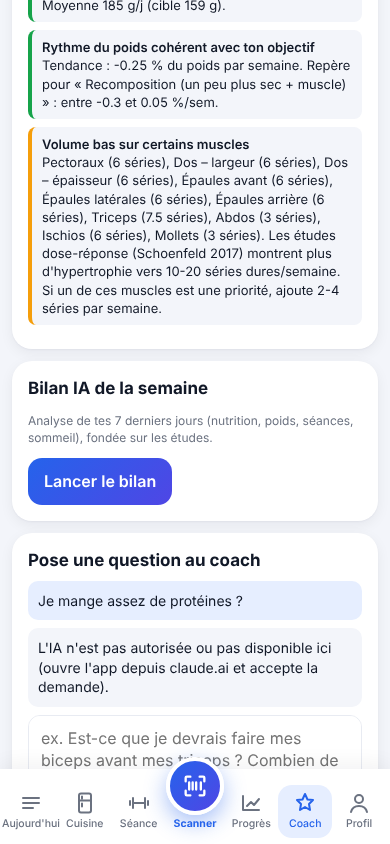
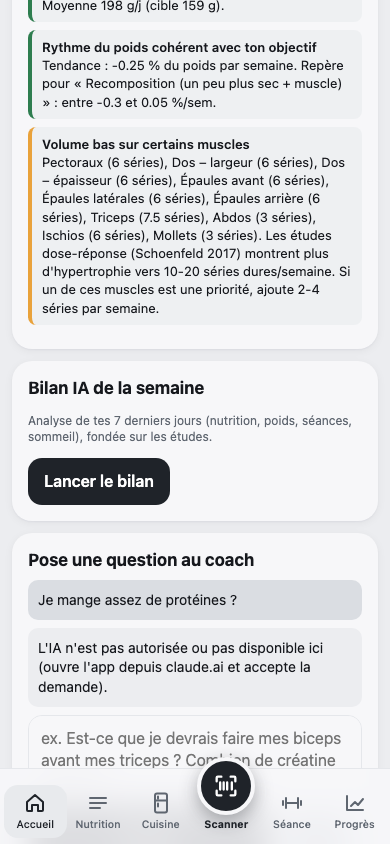
Format téléphone : iPhone simulé sur grand écran (Mac, ordinateur, iPad), lien « Ouvrir en grand »

diff --git a/dev/index.local.html b/dev/index.local.html
@@ -473,12 +473,74 @@ html[data-ds][data-ds-style=c].dark .ds-hero{
 :where(html[data-ds]) .dsh-go{background:var(--u-pastel);color:var(--u-hero);width:100%}
 :where(html[data-ds].dark) .dsh-go{background:color-mix(in srgb,var(--u-accent-dk) 22%,var(--d-card));color:var(--u-accent-dk)}
 
+/* ---------- Format téléphone (phone.js) : iPhone simulé sur grand écran ---------- */
+html.phone-host,html.phone-host body{height:100%;margin:0;overflow:hidden;background:#E6E8EC}
+html.phone-host.dark,html.phone-host.dark body{background:#08090B}
+.phone-stage{height:100%;display:flex;flex-direction:column;align-items:center;justify-content:center;gap:14px}
+.phone{position:relative;width:414px;height:868px;flex:none;padding:12px;box-sizing:border-box;border-radius:64px;background:#101114;box-shadow:0 0 0 2px #2B2E34,0 0 0 5px #0B0C0E,0 30px 80px rgba(0,0,0,.28)}
+.phone iframe{width:390px;height:844px;border:0;border-radius:52px;display:block;background:#fff}
+.phone-island{position:absolute;top:23px;left:50%;transform:translateX(-50%);width:122px;height:35px;border-radius:20px;background:#000;pointer-events:none}
+.phone-home{position:absolute;bottom:20px;left:50%;transform:translateX(-50%);width:134px;height:5px;border-radius:3px;background:rgba(0,0,0,.82);pointer-events:none}
+html.phone-host.dark .phone-home{background:rgba(255,255,255,.82)}
+.phone-out{font:13px -apple-system,system-ui,sans-serif;color:#5F6670;text-decoration:none}.phone-out:hover{text-decoration:underline}
+html.phone-host.dark .phone-out{color:#9AA1AC}
+html.in-phone #app{padding-top:59px!important}
+.phone-status{position:fixed;top:0;left:0;right:0;height:50px;z-index:95;display:flex;justify-content:space-between;align-items:center;padding:4px 26px 0 40px;font:600 16px -apple-system,system-ui,sans-serif;color:var(--txt);background:var(--bg);pointer-events:none}
+.phone-status span{display:flex;gap:6px;align-items:center}.phone-status svg{fill:currentColor}
+html.in-phone nav.tabs{padding-bottom:26px}
+html.in-phone .sheet{padding-bottom:34px}
+html.in-phone .restbar,html.in-phone .fab{bottom:104px}html.in-phone .toast{bottom:108px}
+html.in-phone body:has(#restBar) .toast{bottom:172px}
+
 @media (prefers-reduced-motion:reduce){:where(html[data-ds]) *{transition:none!important;animation-duration:.01ms!important}}
 
 #app{padding-top:calc(12px + env(safe-area-inset-top))}</style>
 <script src="vendor/three.min.js"></script><script src="vendor/OrbitControls.js"></script><script src="vendor/chart.umd.min.js"></script>
 </head><body><div id="app"></div><nav class="tabs" id="nav"></nav><div id="sheet"></div>
 <script>
+// ===================== FORMAT TÉLÉPHONE (section Design) =====================
+// Sur un grand écran (Mac, navigateur d'ordinateur, iPad), l'app s'affiche dans un iPhone simulé (390 × 844) :
+// la page devient un simple « support » qui contient un cadre (iframe) où tourne la vraie app (?inphone=1).
+// Le support ne lance PAS l'app (pas de synchro, pas de données) : il n'y a qu'une seule app qui tourne.
+// Jamais de cadre : sur un téléphone, dans l'app iPhone (pont Santé), dans un cadre, avec ?ds (page d'aperçu),
+// au retour de connexion Spotify (?code=), ou avec ?nophone=1 (« Ouvrir en grand »).
+const PHONE = (() => {
+  const q = new URLSearchParams(location.search);
+  const inPhone = q.has("inphone");
+  let top = true; try { top = window.top === window.self; } catch (e) { top = false; }
+  const native = !!(window.webkit && window.webkit.messageHandlers && window.webkit.messageHandlers.health);
+  const host = !inPhone && top && !native && !q.has("ds") && !q.has("nophone") && !q.get("code") && Math.min(innerWidth, screen.width || innerWidth) >= 700;
+  return { inPhone, host };
+})();
+
+// Appelée au démarrage (actions.js). Renvoie true si la page est le support (l'app ne démarre pas ici).
+function phoneBoot() {
+  const h = document.documentElement;
+  if (PHONE.inPhone) { h.classList.add("in-phone"); phoneStatusBar(); return false; }
+  if (!PHONE.host) return false;
+  h.classList.add("phone-host");
+  const dark = () => { const p = typeof themePref === "function" ? themePref() : "clair"; return p === "sombre" || (p === "auto" && matchMedia("(prefers-color-scheme: dark)").matches); };
+  const paint = () => h.classList.toggle("dark", dark());
+  paint(); addEventListener("storage", e => { if (e.key === "muscu_theme") paint(); }); // le thème choisi dans l'app suit
+  const src = location.pathname + "?inphone=1" + location.hash;
+  document.body.innerHTML = `<div class="phone-stage"><div class="phone" id="phone"><iframe src="${src}" title="Muscu & Nutrition" allow="camera; microphone; clipboard-read; clipboard-write; fullscreen; screen-wake-lock"></iframe>
+    <i class="phone-island"></i><i class="phone-home"></i></div><a class="phone-out" href="${location.pathname}?nophone=1">Ouvrir en grand</a></div>`;
+  const fit = () => { const s = Math.min(1, (innerHeight - 56) / 868, (innerWidth - 32) / 414); document.getElementById("phone").style.zoom = s.toFixed(3); };
+  fit(); addEventListener("resize", fit);
+  return true;
+}
+
+// Barre d'état façon iPhone (heure + icônes), dans l'app quand elle tourne dans le cadre
+function phoneStatusBar() {
+  const el = document.createElement("div"); el.className = "phone-status"; el.setAttribute("aria-hidden", "true");
+  const icons = `<svg width="18" height="12" viewBox="0 0 18 12"><rect x="0" y="8" width="3" height="4" rx="1"/><rect x="5" y="5.5" width="3" height="6.5" rx="1"/><rect x="10" y="3" width="3" height="9" rx="1"/><rect x="15" y="0" width="3" height="12" rx="1"/></svg>
+    <svg width="16" height="12" viewBox="0 0 16 12"><path d="M8 11.5 5.6 9a3.4 3.4 0 0 1 4.8 0zM3.2 6.6a6.8 6.8 0 0 1 9.6 0l-1.4 1.4a4.8 4.8 0 0 0-6.8 0zM.8 4.2a10.2 10.2 0 0 1 14.4 0L13.8 5.6a8.2 8.2 0 0 0-11.6 0z"/></svg>
+    <svg width="27" height="13" viewBox="0 0 27 13"><rect x=".5" y=".5" width="22" height="12" rx="3.5" fill="none" stroke="currentColor" opacity=".4"/><rect x="2" y="2" width="17" height="9" rx="2"/><path d="M24 4.5v4a2 2 0 0 0 0-4z" opacity=".4"/></svg>`;
+  const tick = () => { const d = new Date(); el.innerHTML = `<b>${d.getHours()}:${String(d.getMinutes()).padStart(2, "0")}</b><span>${icons}</span>`; };
+  tick(); setInterval(tick, 20000);
+  document.body.appendChild(el);
+}
+
 // ===================== DONNÉES DE BASE =====================
 // Aliments courants : valeurs moyennes pour 100 g (kcal, prot, gluc, lip, fibres). u = portion type en g
 const FOODS_BASE = [
@@ -4596,7 +4658,7 @@ Object.assign(ACT, DISH_ACT, PLATFORM_ACT, RECIPE_ACT, BODY_ACT, PROG_ACT, NUT_A
 ACT_PICK_MACHINE = id => openSheet(machineSheet(id));
 ACT_PICK_FRIDGE = id => openSheet(fridgeItemSheet(id));
 Store.on(() => { render(); if (liveWorkout()) scheduleTimer(); wakeSync(); });
-if (typeof IS_SP_REDIRECT === "undefined" || !IS_SP_REDIRECT) { render(); Store.init(); if (typeof spBoot === "function") spBoot(); }
+if ((typeof IS_SP_REDIRECT === "undefined" || !IS_SP_REDIRECT) && !(typeof phoneBoot === "function" && phoneBoot())) { render(); Store.init(); if (typeof spBoot === "function") spBoot(); } // phoneBoot : format téléphone sur grand écran (phone.js)
 
 // ===================== DESIGN SYSTEM 2 (section Design) =====================
 // ACTIF par défaut (choix de Vuthy du 26-27/11 : Black Cherry, style C, neutre + accents, accueil).

diff --git a/dev/src/phone.js b/dev/src/phone.js
@@ -1,0 +1,42 @@
+// ===================== FORMAT TÉLÉPHONE (section Design) =====================
+// Sur un grand écran (Mac, navigateur d'ordinateur, iPad), l'app s'affiche dans un iPhone simulé (390 × 844) :
+// la page devient un simple « support » qui contient un cadre (iframe) où tourne la vraie app (?inphone=1).
+// Le support ne lance PAS l'app (pas de synchro, pas de données) : il n'y a qu'une seule app qui tourne.
+// Jamais de cadre : sur un téléphone, dans l'app iPhone (pont Santé), dans un cadre, avec ?ds (page d'aperçu),
+// au retour de connexion Spotify (?code=), ou avec ?nophone=1 (« Ouvrir en grand »).
+const PHONE = (() => {
+  const q = new URLSearchParams(location.search);
+  const inPhone = q.has("inphone");
+  let top = true; try { top = window.top === window.self; } catch (e) { top = false; }
+  const native = !!(window.webkit && window.webkit.messageHandlers && window.webkit.messageHandlers.health);
+  const host = !inPhone && top && !native && !q.has("ds") && !q.has("nophone") && !q.get("code") && Math.min(innerWidth, screen.width || innerWidth) >= 700;
+  return { inPhone, host };
+})();
+
+// Appelée au démarrage (actions.js). Renvoie true si la page est le support (l'app ne démarre pas ici).
+function phoneBoot() {
+  const h = document.documentElement;
+  if (PHONE.inPhone) { h.classList.add("in-phone"); phoneStatusBar(); return false; }
+  if (!PHONE.host) return false;
+  h.classList.add("phone-host");
+  const dark = () => { const p = typeof themePref === "function" ? themePref() : "clair"; return p === "sombre" || (p === "auto" && matchMedia("(prefers-color-scheme: dark)").matches); };
+  const paint = () => h.classList.toggle("dark", dark());
+  paint(); addEventListener("storage", e => { if (e.key === "muscu_theme") paint(); }); // le thème choisi dans l'app suit
+  const src = location.pathname + "?inphone=1" + location.hash;
+  document.body.innerHTML = `<div class="phone-stage"><div class="phone" id="phone"><iframe src="${src}" title="Muscu & Nutrition" allow="camera; microphone; clipboard-read; clipboard-write; fullscreen; screen-wake-lock"></iframe>
+    <i class="phone-island"></i><i class="phone-home"></i></div><a class="phone-out" href="${location.pathname}?nophone=1">Ouvrir en grand</a></div>`;
+  const fit = () => { const s = Math.min(1, (innerHeight - 56) / 868, (innerWidth - 32) / 414); document.getElementById("phone").style.zoom = s.toFixed(3); };
+  fit(); addEventListener("resize", fit);
+  return true;
+}
+
+// Barre d'état façon iPhone (heure + icônes), dans l'app quand elle tourne dans le cadre
+function phoneStatusBar() {
+  const el = document.createElement("div"); el.className = "phone-status"; el.setAttribute("aria-hidden", "true");
+  const icons = `<svg width="18" height="12" viewBox="0 0 18 12"><rect x="0" y="8" width="3" height="4" rx="1"/><rect x="5" y="5.5" width="3" height="6.5" rx="1"/><rect x="10" y="3" width="3" height="9" rx="1"/><rect x="15" y="0" width="3" height="12" rx="1"/></svg>
+    <svg width="16" height="12" viewBox="0 0 16 12"><path d="M8 11.5 5.6 9a3.4 3.4 0 0 1 4.8 0zM3.2 6.6a6.8 6.8 0 0 1 9.6 0l-1.4 1.4a4.8 4.8 0 0 0-6.8 0zM.8 4.2a10.2 10.2 0 0 1 14.4 0L13.8 5.6a8.2 8.2 0 0 0-11.6 0z"/></svg>
+    <svg width="27" height="13" viewBox="0 0 27 13"><rect x=".5" y=".5" width="22" height="12" rx="3.5" fill="none" stroke="currentColor" opacity=".4"/><rect x="2" y="2" width="17" height="9" rx="2"/><path d="M24 4.5v4a2 2 0 0 0 0-4z" opacity=".4"/></svg>`;
+  const tick = () => { const d = new Date(); el.innerHTML = `<b>${d.getHours()}:${String(d.getMinutes()).padStart(2, "0")}</b><span>${icons}</span>`; };
+  tick(); setInterval(tick, 20000);
+  document.body.appendChild(el);
+}

diff --git a/dev/src/theme.css b/dev/src/theme.css
@@ -280,4 +280,23 @@ html[data-ds][data-ds-style=c].dark .ds-hero{
 :where(html[data-ds]) .dsh-go{background:var(--u-pastel);color:var(--u-hero);width:100%}
 :where(html[data-ds].dark) .dsh-go{background:color-mix(in srgb,var(--u-accent-dk) 22%,var(--d-card));color:var(--u-accent-dk)}
 
+/* ---------- Format téléphone (phone.js) : iPhone simulé sur grand écran ---------- */
+html.phone-host,html.phone-host body{height:100%;margin:0;overflow:hidden;background:#E6E8EC}
+html.phone-host.dark,html.phone-host.dark body{background:#08090B}
+.phone-stage{height:100%;display:flex;flex-direction:column;align-items:center;justify-content:center;gap:14px}
+.phone{position:relative;width:414px;height:868px;flex:none;padding:12px;box-sizing:border-box;border-radius:64px;background:#101114;box-shadow:0 0 0 2px #2B2E34,0 0 0 5px #0B0C0E,0 30px 80px rgba(0,0,0,.28)}
+.phone iframe{width:390px;height:844px;border:0;border-radius:52px;display:block;background:#fff}
+.phone-island{position:absolute;top:23px;left:50%;transform:translateX(-50%);width:122px;height:35px;border-radius:20px;background:#000;pointer-events:none}
+.phone-home{position:absolute;bottom:20px;left:50%;transform:translateX(-50%);width:134px;height:5px;border-radius:3px;background:rgba(0,0,0,.82);pointer-events:none}
+html.phone-host.dark .phone-home{background:rgba(255,255,255,.82)}
+.phone-out{font:13px -apple-system,system-ui,sans-serif;color:#5F6670;text-decoration:none}.phone-out:hover{text-decoration:underline}
+html.phone-host.dark .phone-out{color:#9AA1AC}
+html.in-phone #app{padding-top:59px!important}
+.phone-status{position:fixed;top:0;left:0;right:0;height:50px;z-index:95;display:flex;justify-content:space-between;align-items:center;padding:4px 26px 0 40px;font:600 16px -apple-system,system-ui,sans-serif;color:var(--txt);background:var(--bg);pointer-events:none}
+.phone-status span{display:flex;gap:6px;align-items:center}.phone-status svg{fill:currentColor}
+html.in-phone nav.tabs{padding-bottom:26px}
+html.in-phone .sheet{padding-bottom:34px}
+html.in-phone .restbar,html.in-phone .fab{bottom:104px}html.in-phone .toast{bottom:108px}
+html.in-phone body:has(#restBar) .toast{bottom:172px}
+
 @media (prefers-reduced-motion:reduce){:where(html[data-ds]) *{transition:none!important;animation-duration:.01ms!important}}

diff --git a/dev/src/actions.js b/dev/src/actions.js
@@ -319,4 +319,4 @@ Object.assign(ACT, DISH_ACT, PLATFORM_ACT, RECIPE_ACT, BODY_ACT, PROG_ACT, NUT_A
 ACT_PICK_MACHINE = id => openSheet(machineSheet(id));
 ACT_PICK_FRIDGE = id => openSheet(fridgeItemSheet(id));
 Store.on(() => { render(); if (liveWorkout()) scheduleTimer(); wakeSync(); });
-if (typeof IS_SP_REDIRECT === "undefined" || !IS_SP_REDIRECT) { render(); Store.init(); if (typeof spBoot === "function") spBoot(); }
+if ((typeof IS_SP_REDIRECT === "undefined" || !IS_SP_REDIRECT) && !(typeof phoneBoot === "function" && phoneBoot())) { render(); Store.init(); if (typeof spBoot === "function") spBoot(); } // phoneBoot : format téléphone sur grand écran (phone.js)

diff --git a/dev/src/platform_pwa.js b/dev/src/platform_pwa.js
@@ -177,6 +177,7 @@ if ("serviceWorker" in navigator && location.protocol.startsWith("http")) naviga
 // ---------- Mises à jour automatiques ----------
 async function checkUpdate() {
   if (!navigator.onLine || typeof BUILD_VERSION === "undefined" || !location.protocol.startsWith("http")) return;
+  if (typeof PHONE !== "undefined" && PHONE.host) return; // le support du format téléphone ne se recharge pas : l'app dans le cadre s'en charge
   try {
     const j = await (await fetch("version.json?t=" + Date.now(), { cache: "no-store" })).json();
     if (j.v && j.v !== BUILD_VERSION) {

diff --git a/dev/build.py b/dev/build.py
@@ -4,7 +4,7 @@ src='src/'
 css=open(src+'style.css').read()
 if os.path.exists(src+'theme.css'): css+='\n'+open(src+'theme.css').read()  # design system 2 (inactif sans <html data-ds>)
 plat=['platform_pwa.js','spotify.js'] if target=='pwa' else ['platform_claude.js']
-js='\n'.join(open(src+f).read() for f in ['data.js','coachdata.js','core.js','dishimg.js',*plat,'scene3d.js','body3d.js','anim.js','scanner.js','ui.js','fridge.js','nutrition.js','nutri2.js','recipes.js','cuisine2.js','extras.js','energy.js','program.js','photos.js','bilan.js','fatigue.js','actions.js','theme.js'])
+js='\n'.join(open(src+f).read() for f in ['phone.js','data.js','coachdata.js','core.js','dishimg.js',*plat,'scene3d.js','body3d.js','anim.js','scanner.js','ui.js','fridge.js','nutrition.js','nutri2.js','recipes.js','cuisine2.js','extras.js','energy.js','program.js','photos.js','bilan.js','fatigue.js','actions.js','theme.js'])
 logo=base64.b64encode(open('brand/logo-180.png','rb').read()).decode()
 if target=='pwa':
   cfg=json.load(open('pwa_config.json')) if os.path.exists('pwa_config.json') else {"url":"","anon":""}

diff --git a/docs/design-system.md b/docs/design-system.md
@@ -14,6 +14,9 @@ _Référence pour toutes les sessions. Mis à jour le 27/11/2026 : design system
 | **Écran Accueil** + barre à 5 onglets (Accueil · Nutrition · Cuisine · [Scanner] · Séance · Progrès) ; Coach et Profil en icônes en haut de l'accueil | ✅ Accueil validé par Vuthy (26/11, « Oui, l'accueil ») ; barre d'onglets validée aussi (27/11, « Oui, elle me va »), avec « Nutrition » à la place de « Aujourd'hui » |
 | Personnalisation par l'utilisateur (mode, palette muscu, intensité) | 🧩 Architecture prête, **pas** dans les réglages avant validation |
 
+## 0b. Format téléphone (27/11, demande de Vuthy)
+Sur grand écran (Mac, navigateur d'ordinateur, iPad : largeur ≥ 700 px), l'app s'affiche dans un **iPhone simulé** 390 × 844 (cadre, îlot, barre d'état avec l'heure, barre du bas), mis à l'échelle pour tenir dans la fenêtre. `dev/src/phone.js` : la page devient un « support » (classe `phone-host`) qui ne lance pas l'app et contient un cadre `?inphone=1` (classe `in-phone`) où tourne la seule vraie app. Pas de cadre sur téléphone, dans l'app iPhone (pont Santé), avec `?ds` (aperçu), au retour Spotify (`?code=`) ou avec `?nophone=1` (lien « Ouvrir en grand » sous le téléphone). Le thème clair/sombre du support suit celui de l'app. Le support ne vérifie pas les mises à jour (l'app du cadre le fait).
+
 ## 1. Comment voir et comparer (sans toucher au code)
 - Page **`dev/apercu-design.html`** : elle affiche la **vraie app** dans des cadres avec des **données de démonstration** (`dev/demo_seed.js`). Boutons : palette muscu, intensité A/B/C, clair/sombre, identité commune, écran (accueil, nutrition, cuisine, séance, séance en cours, minuteur de repos, progression, profil, fenêtre d'ajout), vues côte à côte (5 palettes, 3 intensités, 4 univers, écrans communs, mobile/ordinateur, avant/après), et « Actuel (en ligne) » pour revenir au design actuel.
 - Lancement : serveur local sur le dossier `dev/` (config `apercu-design` de `.claude/launch.json` sur le Mac, port 8790), puis http://localhost:8790/apercu-design.html. La page **refuse de tourner hors localhost** (sinon les données de démo pourraient se mélanger aux vraies).

diff --git a/docs/ETAT.md b/docs/ETAT.md
@@ -14,7 +14,7 @@ Sauvegarde de l'état au 26/11 : bundle git complet `muscu-sauvegarde-2026-11-26
 | Muscu | `sec/muscu` | En ligne (lot 1) | `1560b59` | Rien de demandé ; idées dans `docs/feuille-de-route.md` |
 | Programmes | `sec/programme` | Proposition faite, **attend Vuthy** | — (aucun code) | Valider la liste (zone 2, HIIT, Camp, Abdos, + option Course 0→5 km) et dire s'il veut une maquette du minuteur |
 | Amis | `sec/amis` | Codé, **non fusionné** | `fcc2301` | Vuthy doit exécuter la partie AMIS de `dev/schema.sql` dans Supabase et activer les inscriptions ; puis test réel et fusion |
-| Design | `sec/design-systeme` | **En ligne** (27/11) | voir branche | Design system 2 actif par défaut : Black Cherry, couleurs affirmées (style C), neutre + accents, Accueil + barre 5 onglets. Tests 77/77, Cuisine 28/28, Muscu 14/14, Nutrition testnut2 OK, contrastes 0 sous le seuil. Captures `dev/shots/design2/planche-5-*` |
+| Design | `sec/design-systeme` | **En ligne** (27/11) ; **format téléphone** prêt, attend « publie » | voir branche | Design system 2 actif par défaut : Black Cherry, couleurs affirmées (style C), neutre + accents, Accueil + barre 5 onglets. Tests 77/77, Cuisine 28/28, Muscu 14/14, Nutrition testnut2 OK, contrastes 0 sous le seuil. Captures `dev/shots/design2/planche-5-*` |
 | Design (Liftin') | `sec/design-liftin` | Remplacée par `sec/design-systeme` (formes Liftin' reprises) | `11888e8` | Ne pas fusionner telle quelle ; accent bleu remplacé par les couleurs par univers |
 | Design (ancien) | `sec/design` | **Non retenu** (vert) | — | Garder en archive, ne pas fusionner |
 | Tests | `test/lot2` | Vérifications déjà intégrées dans `main` | — | Mettre à jour ou supprimer les vieux tests cassés (accord de Vuthy requis) |

diff --git a/docs/journal.md b/docs/journal.md
@@ -2,6 +2,9 @@
 
 _Les entrées les plus récentes en haut. Chaque publication (Coordination) et chaque changement important d'organisation ajoute une entrée. Les sessions lisent les 3 premières au démarrage. L'historique détaillé V1 → V1.8 (17-21/11) est dans le contexte privé `.private/projet/journal-developpement.md`._
 
+## 27/11/2026 — Format téléphone (branche `sec/design-systeme`, non publié)
+- Sur grand écran, l'app s'affiche dans un iPhone simulé (`dev/src/phone.js`, styles en fin de `theme.css`), lien « Ouvrir en grand ». Tests : scénarios 77/77, contrastes 0 sous le seuil, cadre vérifié en 1440×900, 1024×700 et 390×844 (pas de cadre sur téléphone), aucune erreur JS.
+
 ## 27/11/2026 — Publication : design system 2
 - En ligne : nouveau design par univers (Nutrition Deep Ocean, Cuisine Warm Earth, Musculation Black Cherry, Progression Slate Blue ; écrans communs neutres + accents), couleurs affirmées (style C), mode sombre retravaillé, **Accueil** en 4 tuiles, barre Accueil · Nutrition · Cuisine · [Scanner] · Séance · Progrès (Coach et Profil en haut de l'Accueil).
 - Avant publication : `main` était `45069f8`. Branche publiée : `sec/design-systeme` via `integ-2026-11-27`.

diff --git a/docs/decisions.md b/docs/decisions.md
@@ -30,6 +30,7 @@ _Ne contient que ce que Vuthy a réellement validé (sa réponse entre guillemet
 | 26/11 | Identité des écrans communs : **neutre + accents par univers** (onglet actif à la couleur de son univers) | « Neutre + accents » |
 | 26/11 | Écran **Accueil** en tuiles par univers (d'après sa maquette) ; il devient le premier onglet | « Oui, l'accueil » |
 | 27/11 | Barre d'onglets : Accueil · Nutrition · Cuisine · [Scanner] · Séance · Progrès ; Coach et Profil en icônes en haut de l'accueil ; « Aujourd'hui » renommé « Nutrition » | « Oui, elle me va » |
+| 27/11 | Sur grand écran, l'app s'affiche **en format téléphone** (iPhone simulé) ; « Ouvrir en grand » pour l'écran entier | « je veux que l'appli soit format téléphone, une sorte de simulation téléphone » |
 | 26/11 | Migrer tout le développement vers Claude Code, spécialisation par domaine et coordination centrale | demande du 26/11 |
 
 ## Idées abandonnées ou refusées

diff --git a/docs/architecture.md b/docs/architecture.md
@@ -48,6 +48,7 @@ Ordre des modèles Gemini : 3.8-flash → 3.5-flash → 3.5-flash-lite → flash
 | `platform_pwa.js` / `platform_claude.js` | Commun | Accès IA et plateforme selon la cible |
 | `spotify.js` | Divers | Barre musique Spotify (PWA) |
 | `style.css` | Design | Section « Design system » en tête (Design), puis sections par domaine à la fin |
+| `phone.js` | Design | Format téléphone sur grand écran (iPhone simulé, cadre `?inphone=1`) ; accroche dans `actions.js` (démarrage) et `platform_pwa.js` (mises à jour) |
 | `theme.css`, `theme.js` (branche `sec/design-systeme`) | Design | Design system 2 par univers ; inactif sans `?ds=` dans l'adresse ; voir `docs/design-system.md` |
 | `friends.js` (branche `sec/amis`) | Amis | Amis et partage |
 | `programs2.js` (à créer) | Programmes | Programmes cardio, brûle-graisse, camp, abdos |

diff --git a/docs/rapport-accessibilite-design.md b/docs/rapport-accessibilite-design.md
@@ -1,6 +1,6 @@
 # Rapport d'accessibilité — design system 2 (aperçu)
 
-_Généré par `dev/testdesign2.py` le 27/11/2026 00:15. Mesures sur la vraie app (données de démo), WCAG 2.2 AA : texte ≥ 4,5:1, éléments graphiques ≥ 3:1._
+_Généré par `dev/testdesign2.py` le 27/11/2026 01:02. Mesures sur la vraie app (données de démo), WCAG 2.2 AA : texte ≥ 4,5:1, éléments graphiques ≥ 3:1._
 
 **Résultat : 2132 vérifications réussies, 0 sous le seuil.**
 
